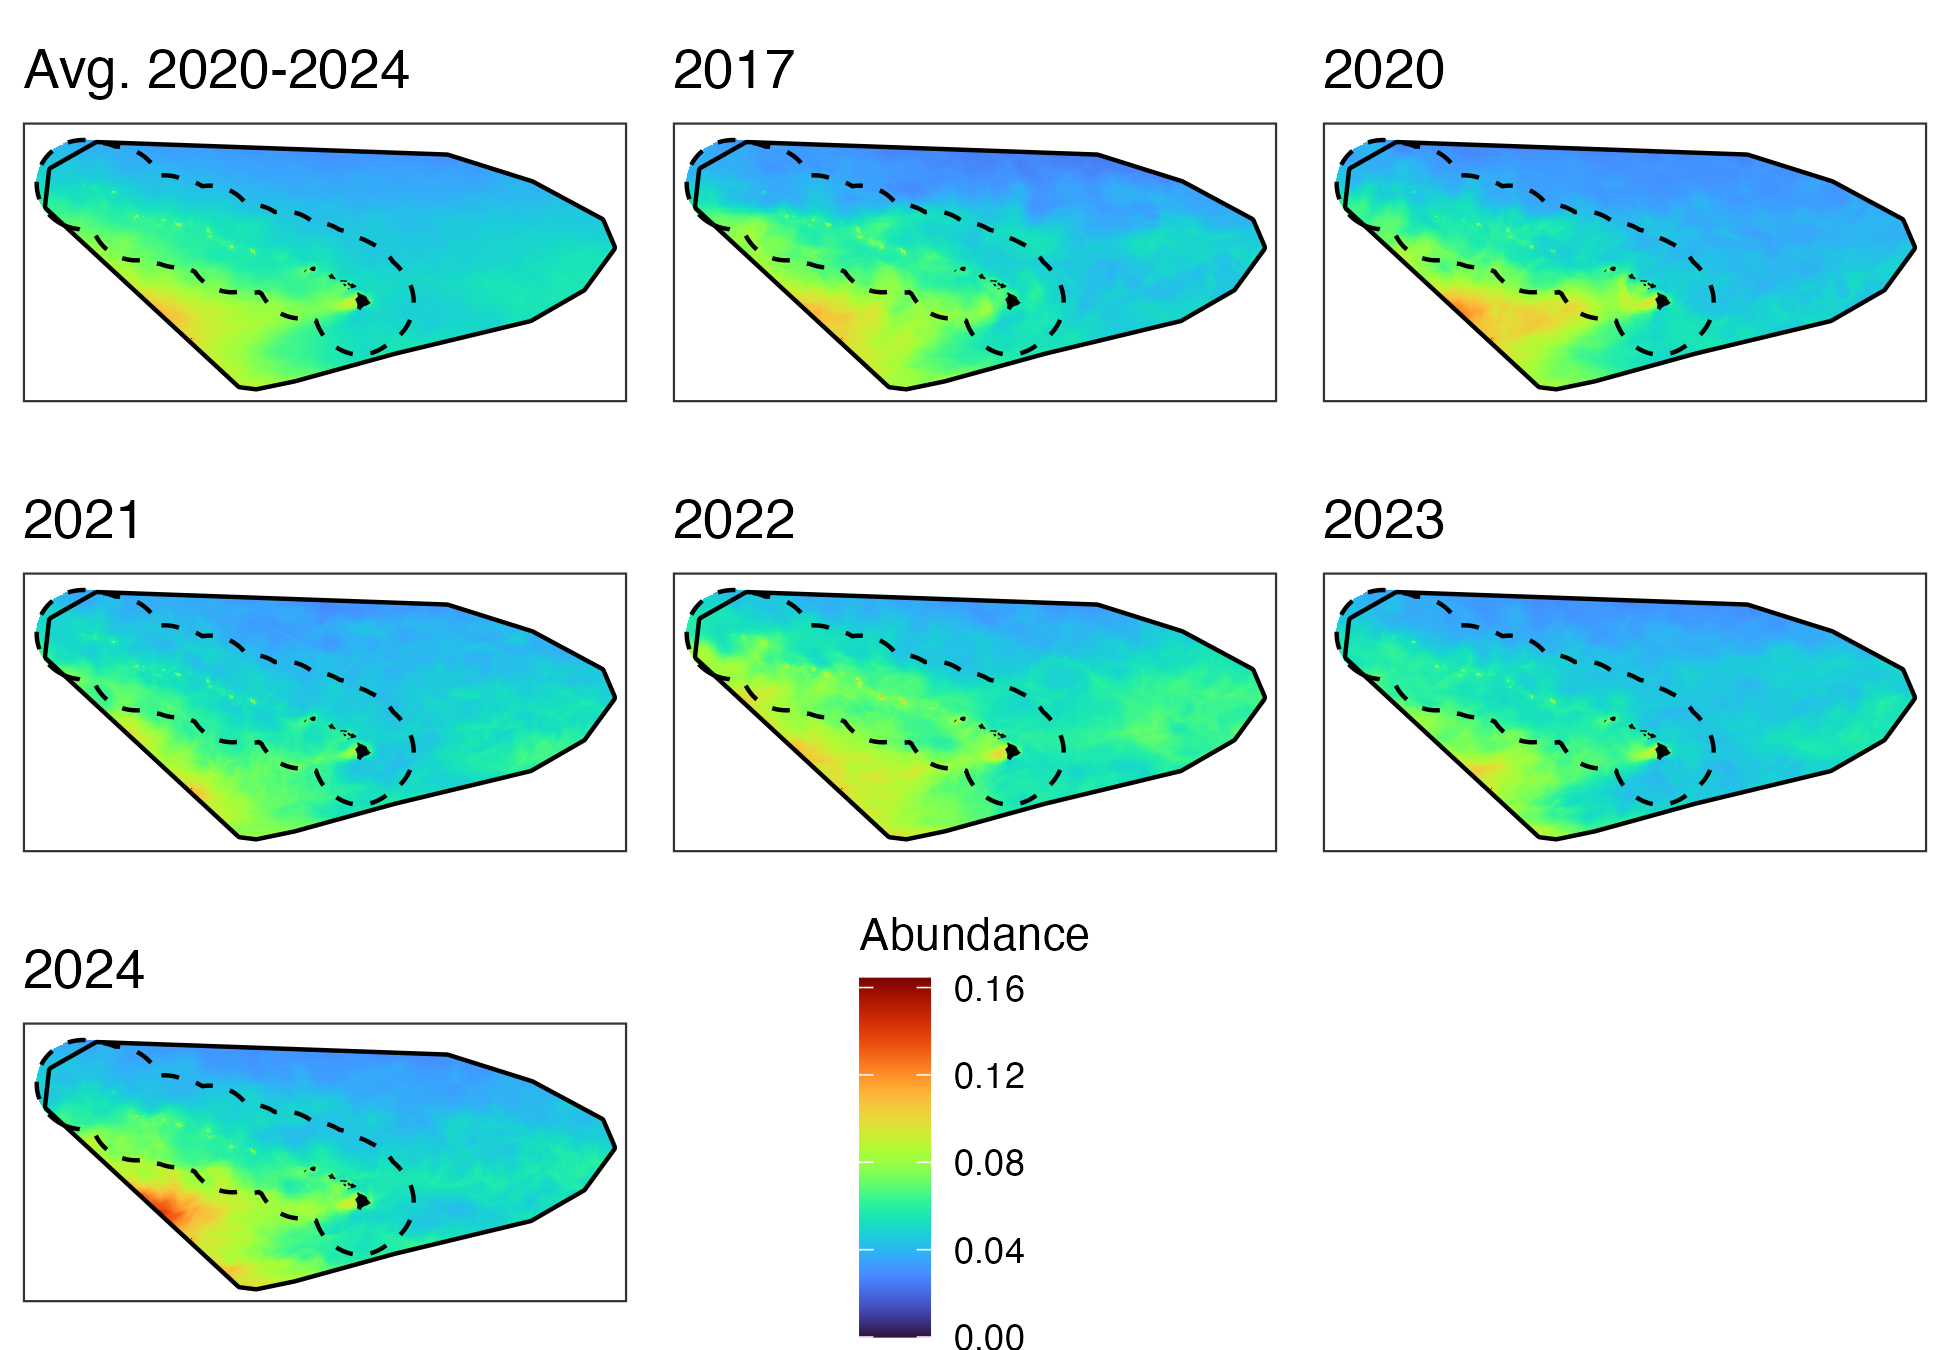
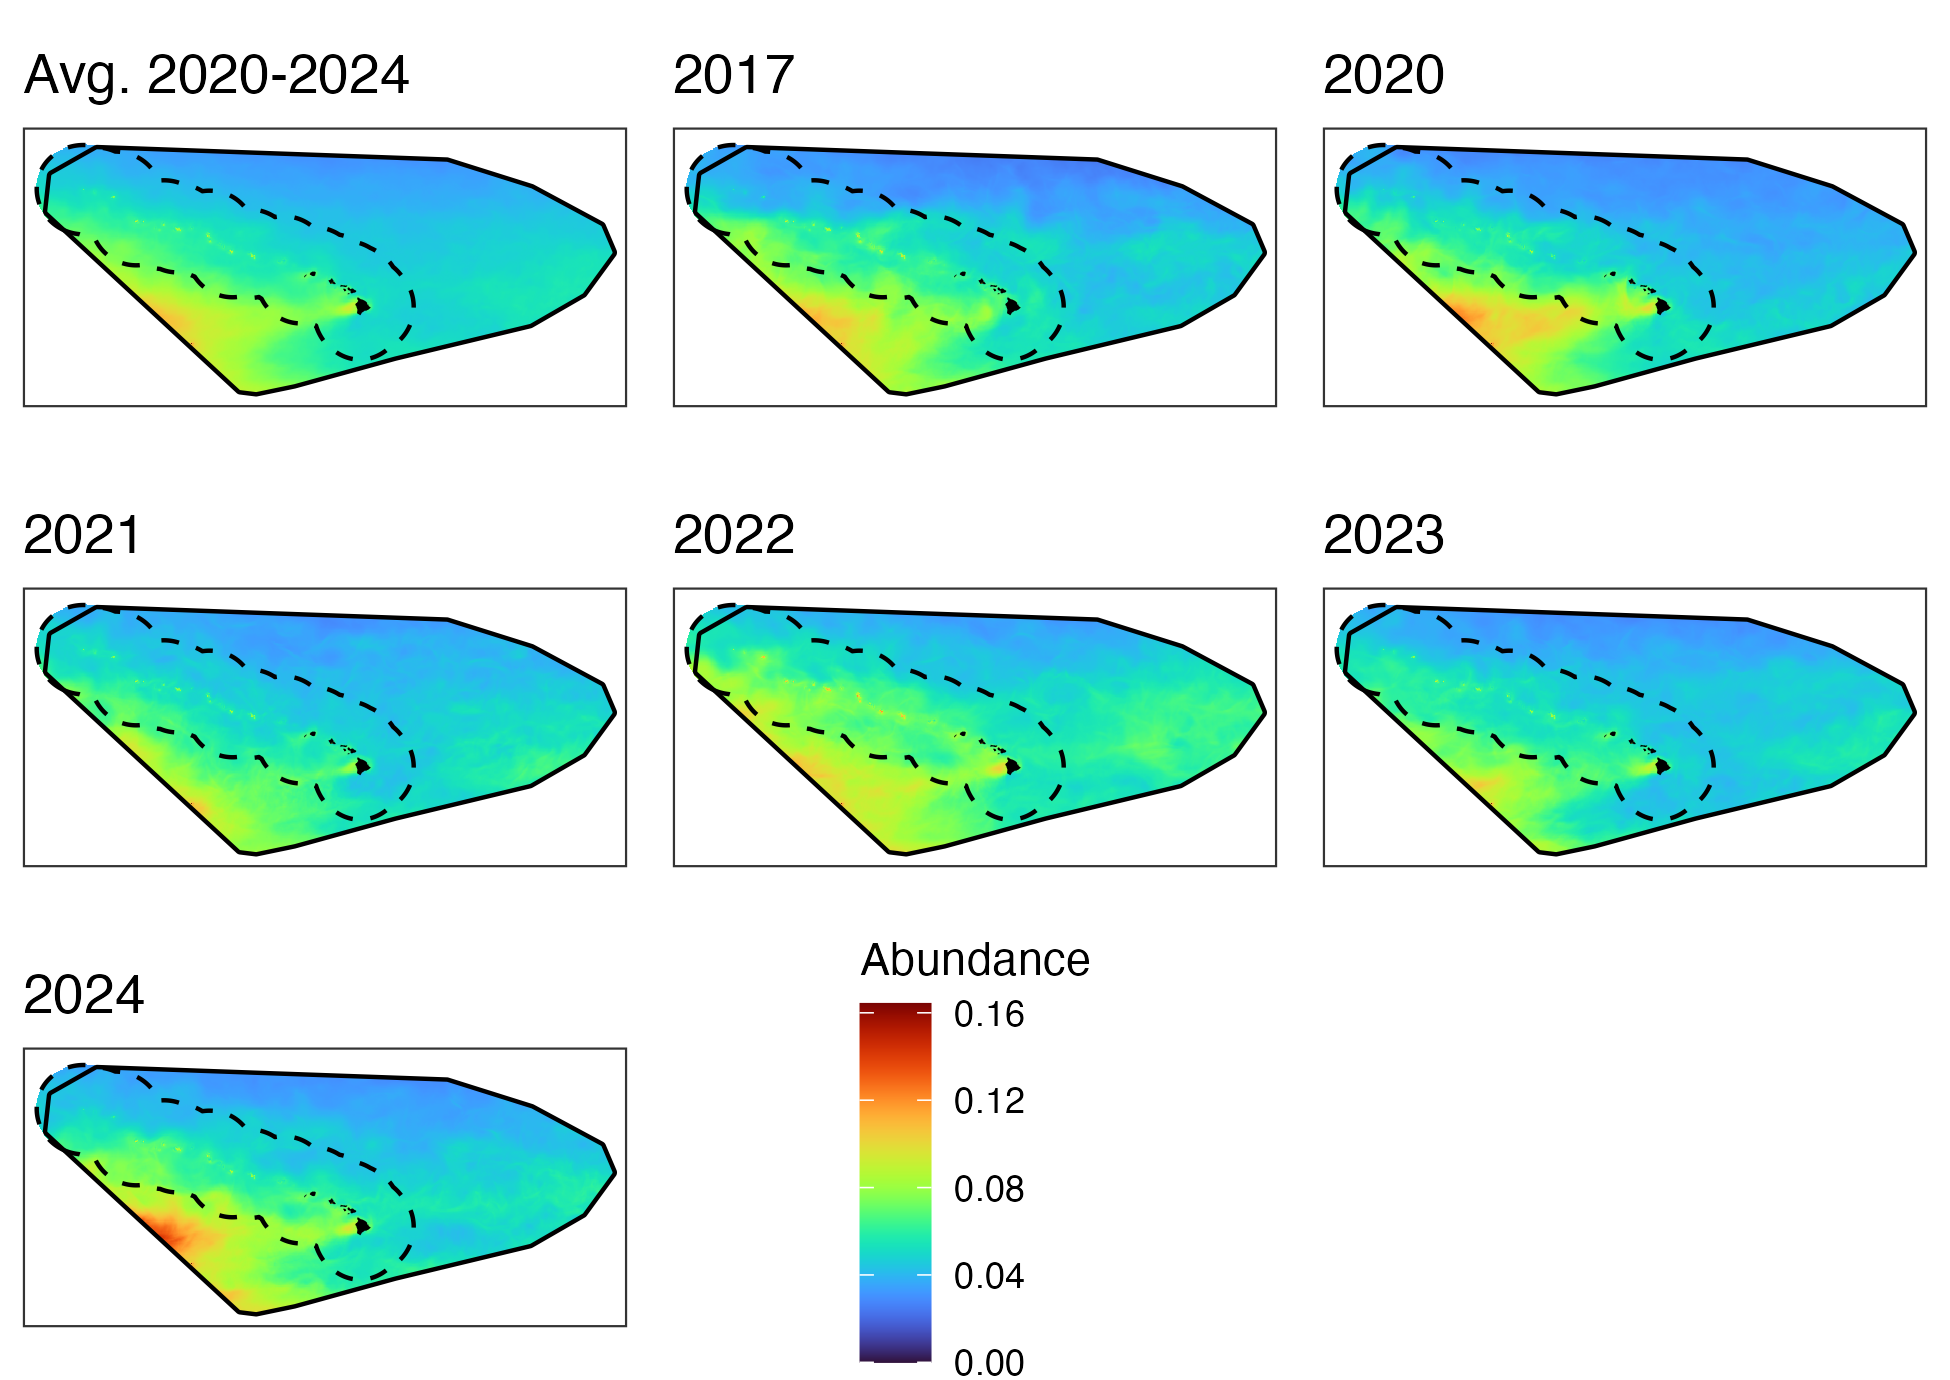
add review link

diff --git a/docs/index.html b/docs/index.html
@@ -236,6 +236,7 @@ Saltwater Inc., Anchorage, Alaska<br>
 <section id="summary" class="level3">
 <h3 class="anchored" data-anchor-id="summary">Summary</h3>
 <p>Spatially-explicit density surface models (DSMs) for cetaceans have become a powerful assessment and management tool enabling examination of animal distribution and density at various scales within the modeled area. The objective of this project, with support from the <a href="https://www.fisheries.noaa.gov/national/population-assessments/national-protected-species-toolbox-initiative">NOAA Fisheries National Protected Species Toolbox Initiative</a>, is to update the DSM framework used to estimate cetacean abundance in the central Pacific and Hawaiʻi and produce new density estimates for pelagic false killer whales, and other species, using data through the <a href="https://www.fisheries.noaa.gov/feature-story/mission-high-seas-hawaiian-islands-cetacean-and-ecosystem-assessment-survey">2023 Hawaiian Islands Cetacean and Ecosystem Assessment Survey (HICEAS)</a>. This Toolbox project is using open science practices to accomplish three main objectives: (1) reformulation of the current central Pacific/Hawaiʻi DSM structure in R using upgraded spatial functionality and new modeled oceanographic products, (2) integration of new spatially-explicit methods for propagating uncertainty of detection parameters and environmental variability, and (3) exploration and integration of new model validation approaches, especially for data limited species. While the objectives of this project are to provide updated abundance estimates for pelagic false killer whales in the central Pacific region, the overall goal is to provide a current, open access workflow for density surface modeling of distance sampling-based survey data that NOAA Fisheries and other users can utilize for reproducible cetacean density estimation. Here, we provide a discussion of the workflow, products, and current status of the project.</p>
+<p>A collection of independent reviews and responses of the work presented in this web tutorial can be downloaded from <a href="https://github.com/PIFSC-Protected-Species-Division/density_surface_modeling/blob/master/content/FKW-DSM-2026_Technical-Review-Documentation.pdf?raw=true">here</a>.</p>
 </section>
 <section id="r-code" class="level3">
 <h3 class="anchored" data-anchor-id="r-code">R code</h3>

diff --git a/README.md b/README.md
@@ -1,4 +1,5 @@
 <!-- README.md is generated from README.Rmd. Please edit that file -->
+
 <!-- badges: start 
 [![crawl status badge](https://dsjohnson.r-universe.dev/badges/crawl)](https://dsjohnson.r-universe.dev)
 [![R-CMD-check](https://github.com/NMML/crawl/workflows/R-CMD-check/badge.svg)](https://github.com/NMML/crawl/actions)
@@ -16,6 +17,9 @@
 
 Full documentation is available
 [here](https://pifsc-protected-species-division.github.io/density_surface_modeling/).
+A collection of independent reviews and responses of the work presented
+in this repository can be downloaded from
+[here](https://github.com/PIFSC-Protected-Species-Division/density_surface_modeling/blob/master/content/FKW-DSM-2026_Technical-Review-Documentation.pdf?raw=true).
 
 ### License
 